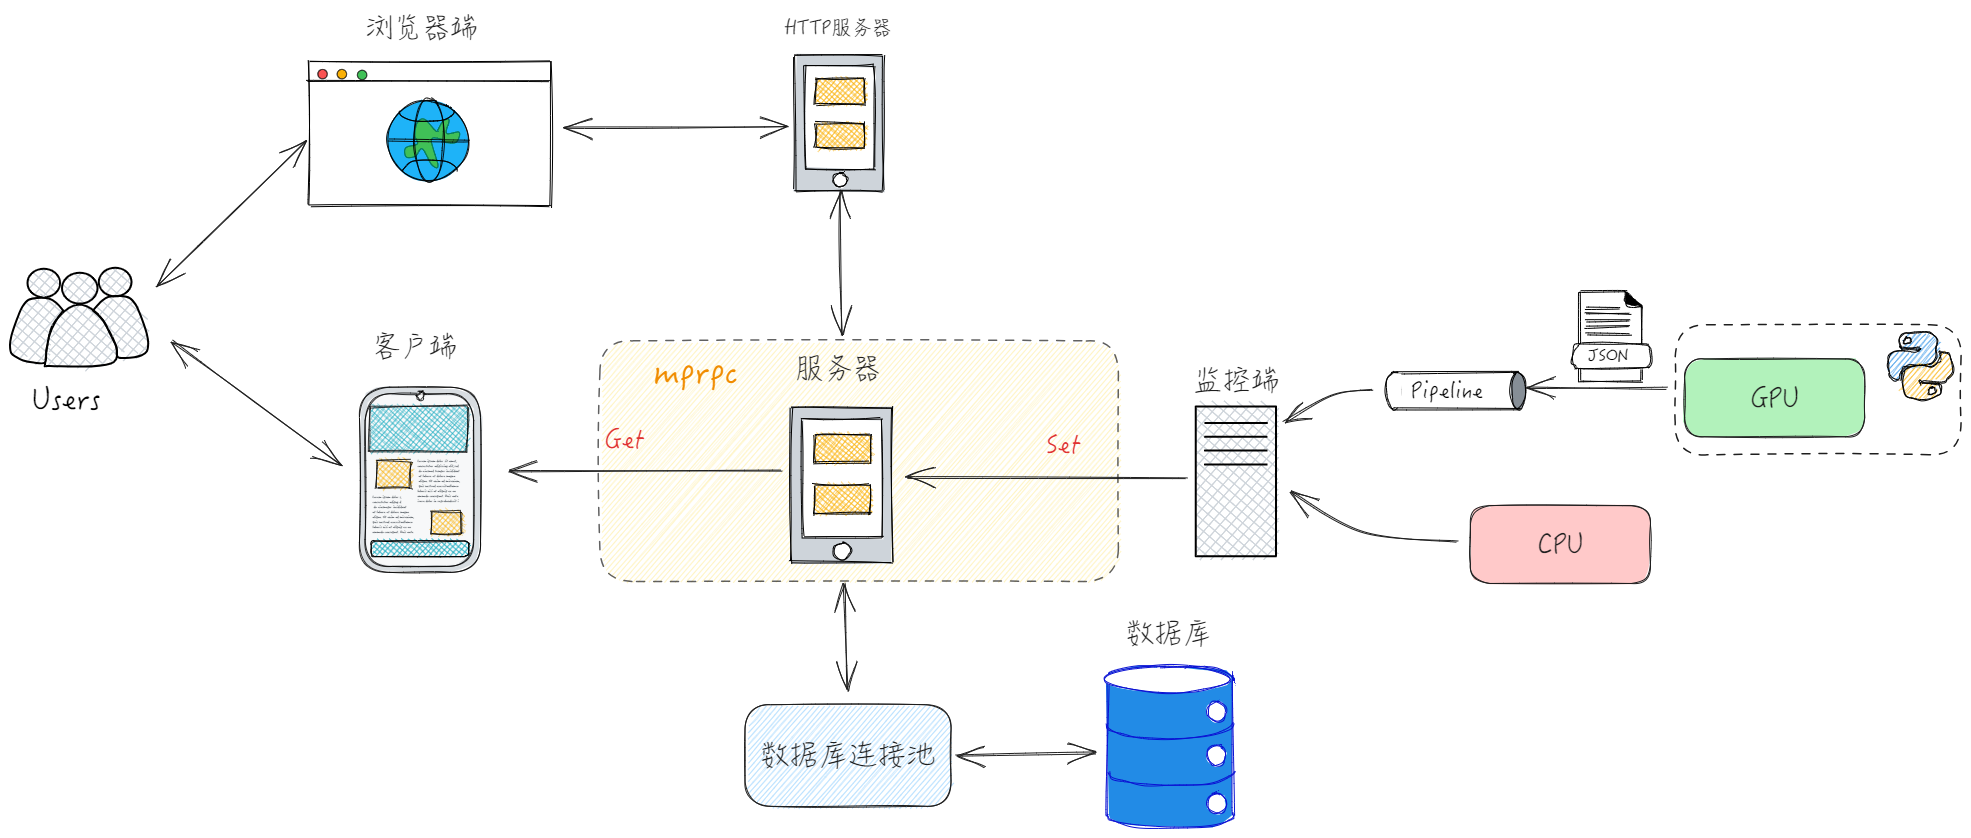
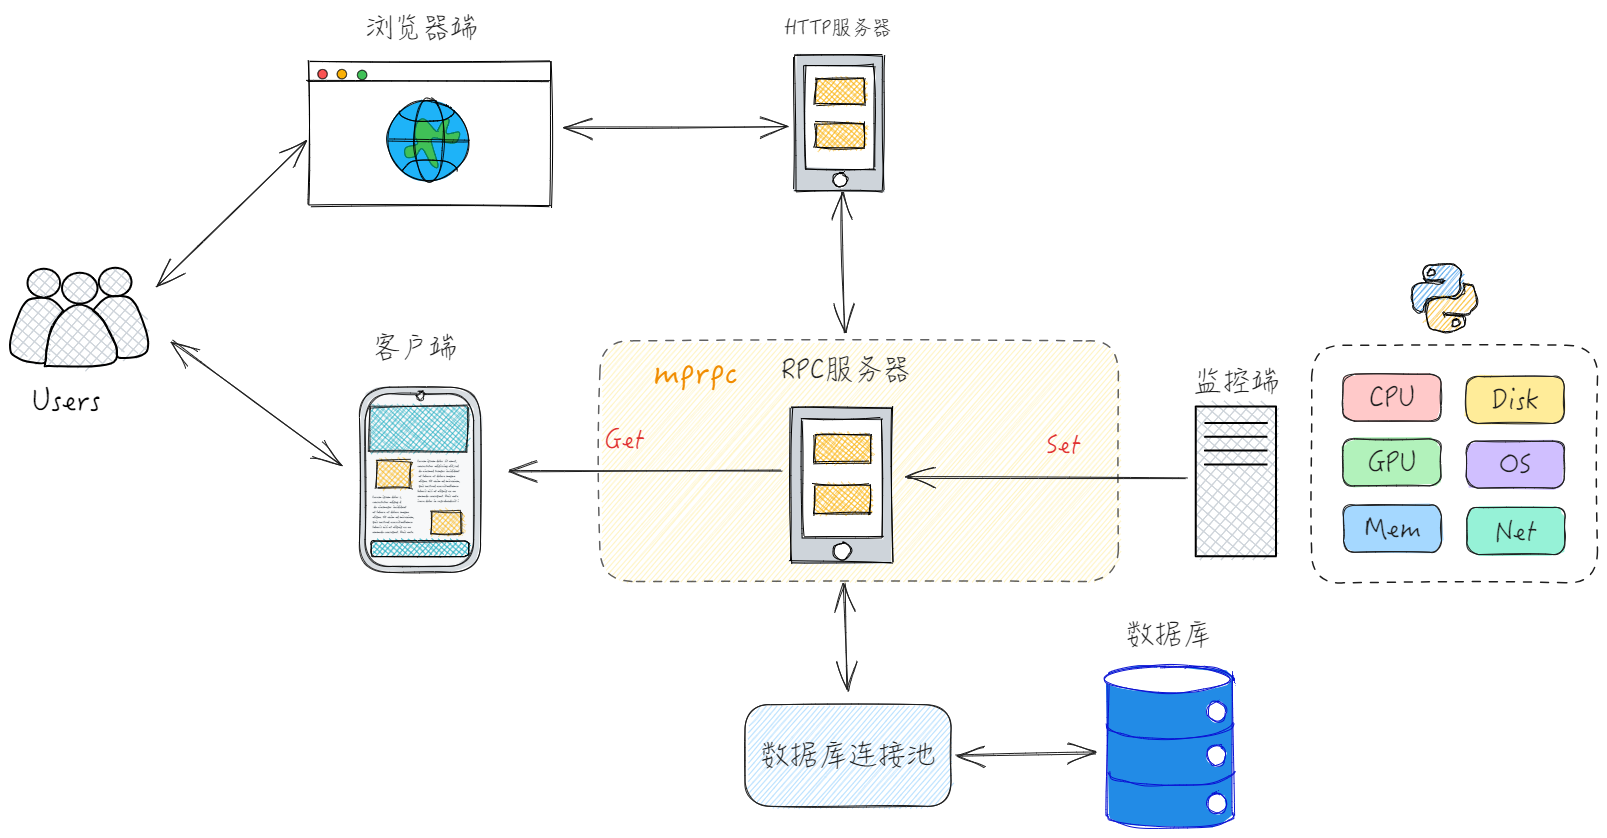
docs(README): 更新项目介绍和使用说明
- 修改项目意义说明，突出其对深度学习学生的帮助
- 补充快速使用指南，包括下载、配置和运行客户端的步骤
- 添加多用户调用流程图
- 更新特色说明，强调支持多用户和多GPU服务器集群
- 修改功能列表，将已完成的任务标记为 [x]
- 更新目录结构，改用 utils 替代 tool
- 移除过时的内容，增加新的说明和截图

diff --git a/README.md b/README.md
@@ -2,8 +2,9 @@
 ![logo](./doc/img/logo.jpg)
 ## 🎉项目意义
 
-课题组是做深度学习的，现有3台服务器10几张显卡，但由于管理不善，经常意外关机等。因此，需要一套监控系统，同时监控多台服务器的cpu/gpu信息，帮助定位问题，减少宕机
+对于搞深度学习的学生，如果你是使用公共 GPU 服务器集群的话，也许这个项目对你有帮助
 
+它可以让你在手机上就查看服务器的显存大小, 无需 ssh 登录服务器, 然后输入 nvidia-smi 命令
 
 
 ## ⚙功能
@@ -16,22 +17,23 @@
 - [x] 客户端界面美化
 - [x] 用户登陆/注册功能
 - [x] 同一用户多台主机同时监测
-- [ ] 客户端跨平台移植，适配windows平台
 - [x] 支持网页端实时监控
 - [x] 网页端实时监控登录注册功能
-- [ ] 服务端压力测试，监控端显卡压力测试
-- [ ] 客户端打包exe文件(win)/bin文件(linux)，发布reslease版本
+- [x] 服务端压力测试，监控端显卡压力测试
+- [x] 客户端打包exe文件(win)/bin文件(linux)，发布reslease版本
+- [ ] 代码优化，系统优化
 
 
 
 
 ## ✨特色
+![多用户调用](./doc/img/多用户调用流程.png)
 ![系统架构](./doc/img/系统架构.png)
 
 1. 采用SOA架构，监控端、服务端、客户端代码分离
-2. 采用自制的 [mprpc](https://github.com/yzfzzz/mprpc) 微服务架构，不依赖第三方rpc框架（如grpc、brpc等）
+2. 采用自研的 [mprpc](https://github.com/yzfzzz/mprpc) 微服务架构，不依赖第三方rpc框架（如grpc、brpc等）
 3. docker一键部署，免去复杂的环境配置
-4. 支持同时监控GPU服务器集群
+4. 支持同时监控多用户、多GPU服务器集群
 5. 安全，不暴露本地端口
 6. 支持历史数据云备份
 7. 支持客户端、网页端多端实时监控
@@ -44,14 +46,14 @@
 | ------------------------------------------------------------ | ----------------- |
 | [bin](https://github.com/yzfzzz/linux-monitor/tree/main/bin) | 可执行文件        |
 | [database](https://github.com/yzfzzz/linux-monitor/tree/main/database) | mysql数据库连接池  |
-| [display_monitor](https://github.com/yzfzzz/linux-monitor/tree/main/display_monitor) | 客户端            |
+| [display_monitor](https://github.com/yzfzzz/linux-monitor/tree/main/display_monitor) | 客户端（当前版本已不兼容）               |
 | [docker](https://github.com/yzfzzz/linux-monitor/tree/main/docker) | 环境配置          |
 | [mprpc](https://github.com/yzfzzz/linux-monitor/tree/main/mprpc) | 自制的rpc框架     |
 | [proto](https://github.com/yzfzzz/linux-monitor/tree/main/proto) | 数据传输格式      |
 | [rpc_manager](https://github.com/yzfzzz/linux-monitor/tree/main/rpc_manager) | rpc客户端、服务端 |
 | [test](https://github.com/yzfzzz/linux-monitor/tree/main/test) | 功能开发测试      |
-| [test_monitor](https://github.com/yzfzzz/linux-monitor/tree/main/test_monitor) | 监控端            |
-| [tool](https://github.com/yzfzzz/linux-monitor/tree/main/tool) | 第三方/自己实现的功能库  |
+| [test_monitor](https://github.com/yzfzzz/linux-monitor/tree/main/test_monitor) | 监控端（当前版本已不兼容）            |
+| [utils](https://github.com/yzfzzz/linux-monitor/tree/main/utils) | 第三方/自己实现的功能库  |
 
 ## 😍效果
 登录注册界面<br>
@@ -59,13 +61,33 @@
 qt客户端界面<br>
 ![qt客户端界面](./doc/img/qt客户端界面.png)<br>
 网页端登录界面<br>
-| ![网页端登录界面](./doc/img/网页端登录界面.png)<br>
+![网页端登录界面](./doc/img/网页端登录界面.png)<br>
 网页端主界面<br>
 ![网页端主界面](./doc/img/网页端主界面.png)<br>
 
 ## 怎么用？
+### 快速使用
+1. 点击[下载文件](https://github.com/yzfzzz/GMPanel/releases/tag/v0.8.1)，解压到服务器任意目录<br>
+![快速使用1](./doc/img/快速使用1.png)<br>
+2. 修改配置文件config.yaml，修改账号，机器名自定义
+    ```yaml
+    # 用户账号，新用户先需要注册
+    accountnum: "168925"
+    # 机器名，同一用户的多台机器名必须不同
+    machine_name: 1-xiaoxin
+    # 监控每获取数据的间隔, 可以不改
+    sleep_time: 5
+    ```
+3. 直接运行
+    ```shell
+    ./gmpanel_client
+    ```
+### 自己搭建服务
+建议使用我提供的云服务器
 
-❌**待完善......**
+如果你需要搭建自己的服务器(当前版本下不建议, 因为IP/端口/数据库需要修改代码手动配置)，可以参考如下步骤:
+
+docker环境的安装：https://www.yuque.com/yangshengdashi/isfgw0/hpaccn8i10g0fcre?singleDoc#
 
 先配置好docker环境，生成镜像，镜像名应为 linux:mprpc_monitor
 
@@ -84,11 +106,10 @@ cd ./home/work
 
 ```shell
 cd bin
-./server -i address.conf & ./run.sh 
+./server
+./http_server
 ```
+## Join Us
+由于这个项目仍不够完善，如果你有更好的想法，欢迎提issue，一起交流。
 
-最后，在终端运行客户端（需要图形化界面）
-
-```shell
-./display -i address.conf
-```
+b站: https://space.bilibili.com/517357927
